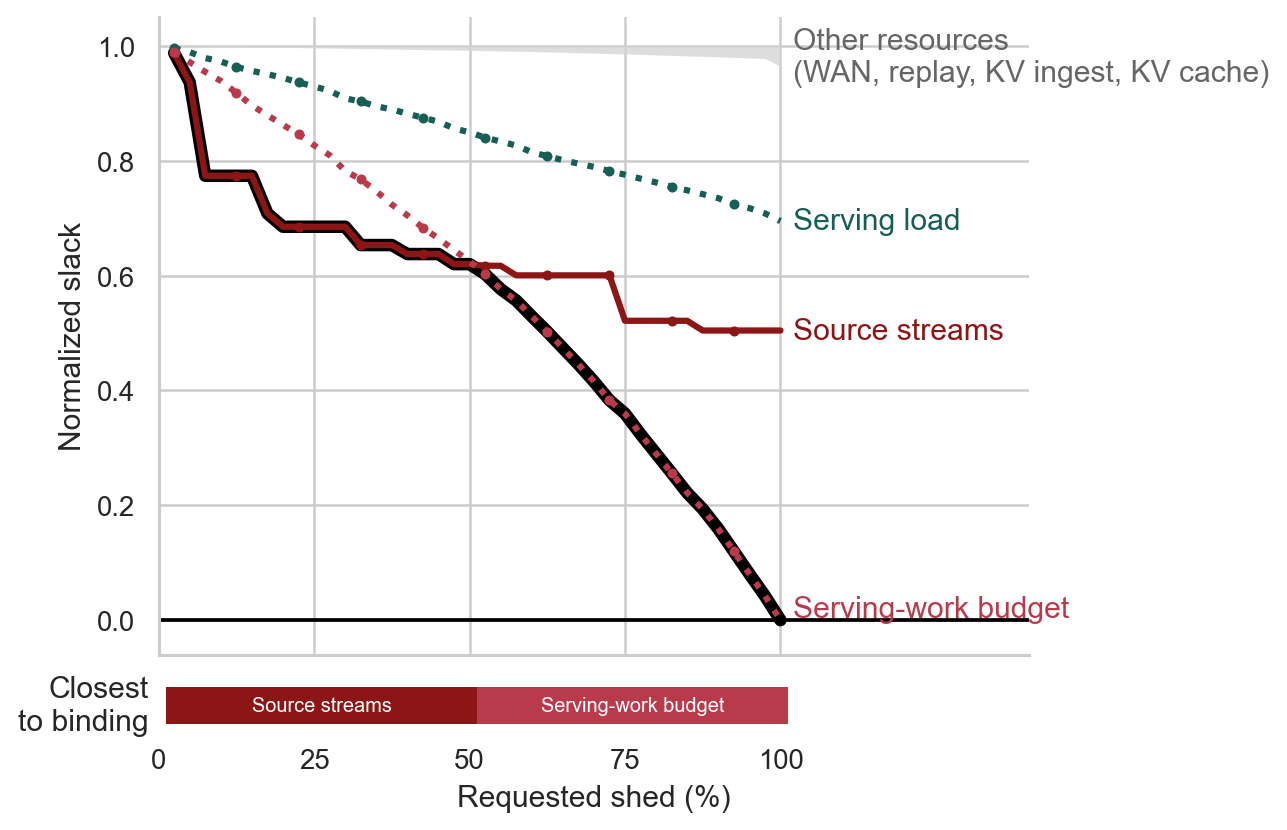
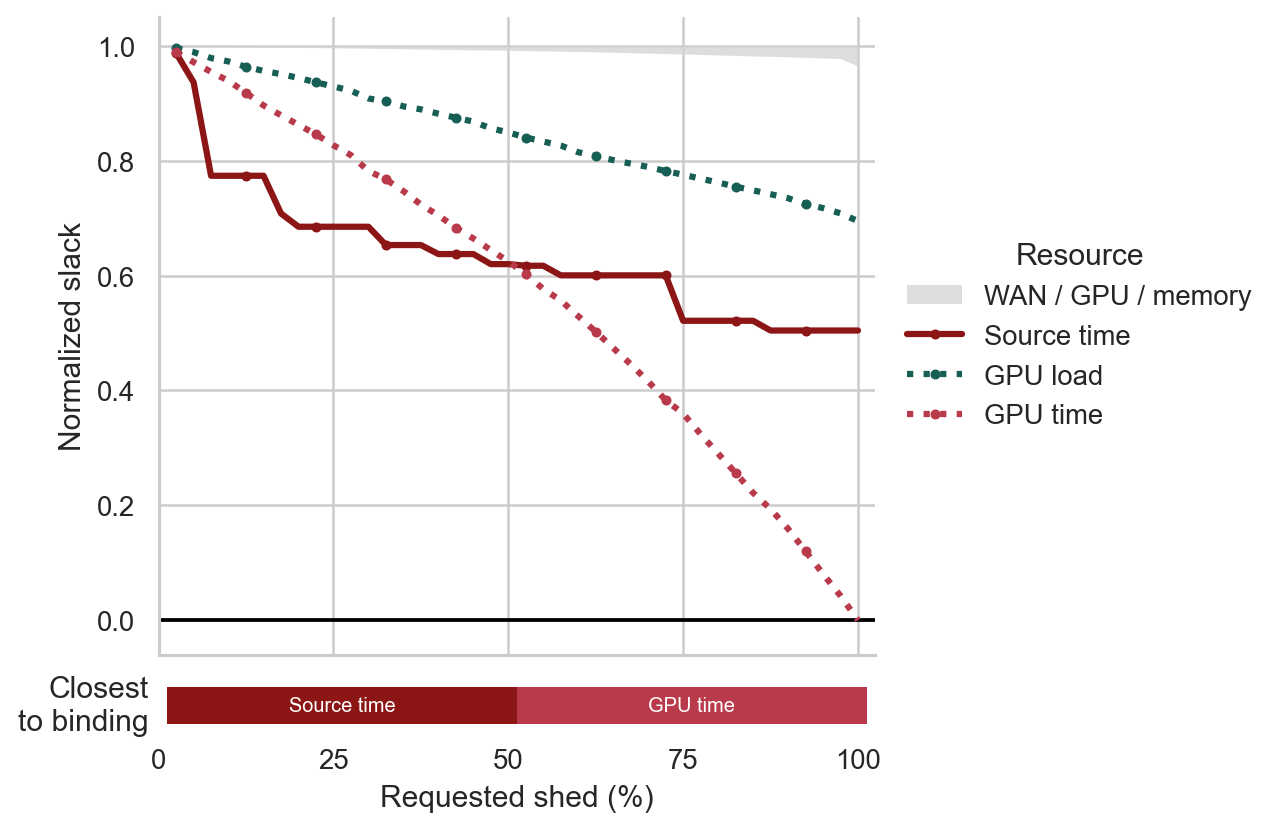
Clarify residual resource labels

diff --git a/agent-migrate/queue-haul/plot_fixed_contract_residuals.py b/agent-migrate/queue-haul/plot_fixed_contract_residuals.py
@@ -303,9 +303,9 @@ def plot(rows, out):
         ):
             row[field] = float(row[field])
     primary = (
-        ("Source migration-stream time", "Source streams", "#8C1515", "-"),
-        ("Ongoing integrated serving load", "Serving load", "#175E54", ":"),
-        ("Queued serving work", "Serving-work budget", "#B83A4B", ":"),
+        ("Source migration-stream time", "Source time", "#8C1515", "-"),
+        ("Ongoing integrated serving load", "GPU load", "#175E54", ":"),
+        ("Queued serving work", "GPU time", "#B83A4B", ":"),
     )
     loose = (
         "WAN transfer bytes", "Replay reconstruction GPU time",
@@ -340,13 +340,12 @@ def plot(rows, out):
     axis.fill_between(
         x, loose_values.min(0), loose_values.max(0),
         color="#D5D5D5", alpha=.8, linewidth=0,
+        label="WAN / GPU / memory",
     )
-    envelope = np.min([values[resource] for resource, *_ in primary], axis=0)
-    axis.plot(x, envelope, color="black", linewidth=5, zorder=2)
     for resource, label, color, linestyle in primary:
         axis.plot(
             x, values[resource], color=color, linestyle=linestyle, linewidth=2.5,
-            marker="o", markersize=3, markevery=4, zorder=3,
+            marker="o", markersize=3, markevery=4, zorder=3, label=label,
         )
     axis.axhline(0, color="black", linewidth=1.5)
     if failed:
@@ -354,20 +353,12 @@ def plot(rows, out):
             failed, np.full(len(failed), -.035), marker="x", color="black",
             s=45, linewidth=1.5, label="Unmet", clip_on=False,
         )
-    for resource, label, color, _ in primary:
-        axis.text(
-            102, values[resource][-1] + (.02 if resource == "Queued serving work" else 0),
-            label, color=color, va="center",
-        )
-    axis.text(
-        102, loose_values[:, -1].mean(),
-        "Other resources\n(WAN, replay, KV ingest, KV cache)",
-        color="#666666", va="center",
-    )
+    axis.legend(title="Resource", frameon=False, loc="center left",
+                bbox_to_anchor=(1.01, .5))
     axis.set(
         ylabel="Normalized slack",
         ylim=(-.06, 1.05),
-        xlim=(0, 140),
+        xlim=(0, 102.5),
     )
     bindings = minimum_slack(rows, all_resources)
     bounds = np.r_[
